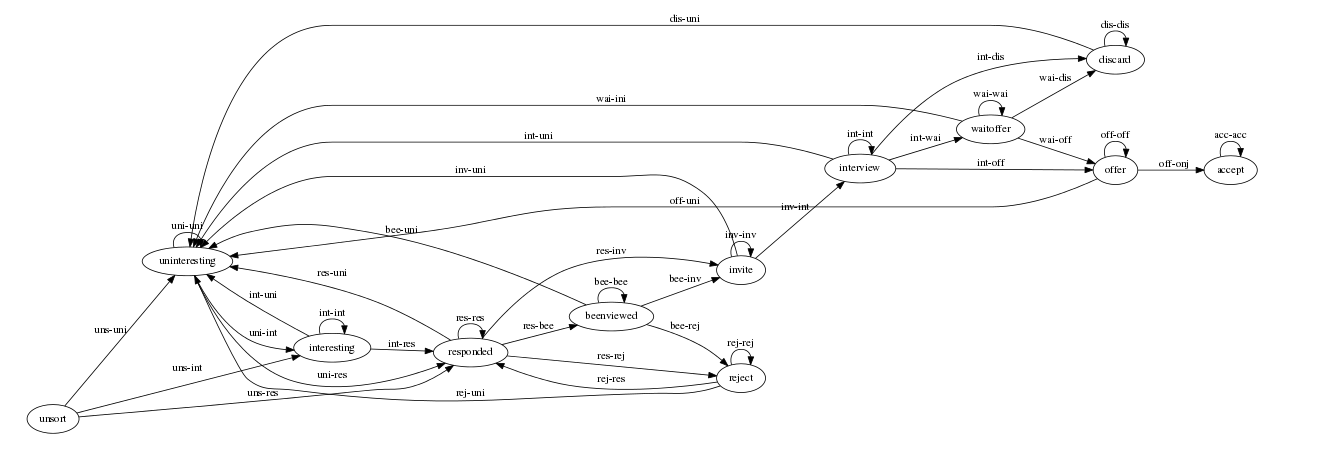
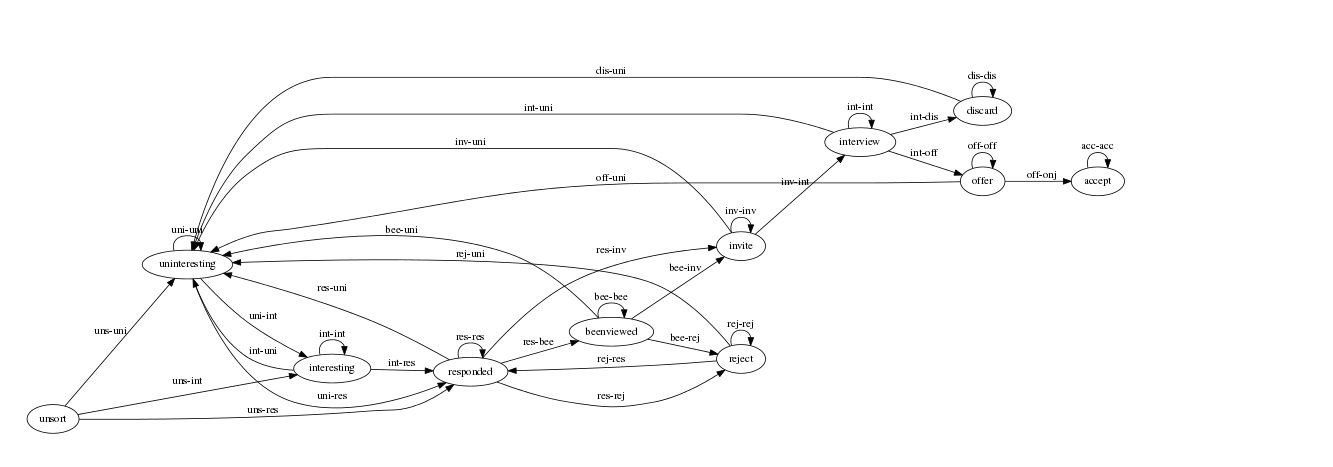
fixes

diff --git a/hh.html b/hh.html
@@ -4,7 +4,7 @@
 <html xmlns="http://www.w3.org/1999/xhtml" lang="en" xml:lang="en">
 <head>
 <title>Модуль HeadHunter</title>
-<!-- 2015-03-28 Сб. 07:10 -->
+<!-- 2015-03-28 Сб. 08:06 -->
 <meta  http-equiv="Content-Type" content="text/html;charset=utf-8" />
 <meta  name="generator" content="Org-mode" />
 <meta  name="author" content="rigidus" />
@@ -2444,36 +2444,6 @@ for the JavaScript code in this tag.
 </tr>
 
 <tr>
-<td class="left">int-wai</td>
-<td class="left">interview</td>
-<td class="left">waitoffer</td>
-</tr>
-
-<tr>
-<td class="left">wai-off</td>
-<td class="left">waitoffer</td>
-<td class="left">offer</td>
-</tr>
-
-<tr>
-<td class="left">wai-dis</td>
-<td class="left">waitoffer</td>
-<td class="left">discard</td>
-</tr>
-
-<tr>
-<td class="left">wai-ini</td>
-<td class="left">waitoffer</td>
-<td class="left">uninteresting</td>
-</tr>
-
-<tr>
-<td class="left">wai-wai</td>
-<td class="left">waitoffer</td>
-<td class="left">waitoffer</td>
-</tr>
-
-<tr>
 <td class="left">int-off</td>
 <td class="left">interview</td>
 <td class="left">offer</td>
@@ -2529,49 +2499,73 @@ for the JavaScript code in this tag.
 <pre class="src src-lisp" id="hh_fn_contents">(<span style="color: #a020f0;">in-package</span> #<span style="color: #483d8b;">:moto</span>)
 
 (<span style="color: #a020f0;">defun</span> <span style="color: #0000ff;">uns-uni</span> ()
-  <span style="color: #8b2252;">" unsort        | uninteresting "</span>)
+  <span style="color: #8b2252;">"| unsort        | uninteresting |"</span>)
 (<span style="color: #a020f0;">defun</span> <span style="color: #0000ff;">uns-int</span> ()
-  <span style="color: #8b2252;">" unsort        | interesting   "</span>)
+  <span style="color: #8b2252;">"| unsort        | interesting   |"</span>)
 (<span style="color: #a020f0;">defun</span> <span style="color: #0000ff;">uns-res</span> ()
-  <span style="color: #8b2252;">" unsort        | responded     "</span>)
+  <span style="color: #8b2252;">"| unsort        | responded     |"</span>)
 (<span style="color: #a020f0;">defun</span> <span style="color: #0000ff;">uni-int</span> ()
-  <span style="color: #8b2252;">" uninteresting | interesting   "</span>)
+  <span style="color: #8b2252;">"| uninteresting | interesting   |"</span>)
 (<span style="color: #a020f0;">defun</span> <span style="color: #0000ff;">uni-res</span> ()
-  <span style="color: #8b2252;">" uninteresting | responded     "</span>)
+  <span style="color: #8b2252;">"| uninteresting | responded     |"</span>)
 (<span style="color: #a020f0;">defun</span> <span style="color: #0000ff;">uni-uni</span> ()
-  <span style="color: #8b2252;">" uninteresting | uninteresting "</span>)
+  <span style="color: #8b2252;">"| uninteresting | uninteresting |"</span>)
 (<span style="color: #a020f0;">defun</span> <span style="color: #0000ff;">int-uni</span> ()
-  <span style="color: #8b2252;">" interesting   | uninteresting "</span>)
+  <span style="color: #8b2252;">"| interesting   | uninteresting |"</span>)
 (<span style="color: #a020f0;">defun</span> <span style="color: #0000ff;">int-res</span> ()
-  <span style="color: #8b2252;">" interesting   | responded     "</span>)
+  <span style="color: #8b2252;">"| interesting   | responded     |"</span>)
 (<span style="color: #a020f0;">defun</span> <span style="color: #0000ff;">int-int</span> ()
-  <span style="color: #8b2252;">" interesting   | interesting   "</span>)
+  <span style="color: #8b2252;">"| interesting   | interesting   |"</span>)
 (<span style="color: #a020f0;">defun</span> <span style="color: #0000ff;">res-bee</span> ()
-  <span style="color: #8b2252;">" responded     | beenviewed    "</span>)
+  <span style="color: #8b2252;">"| responded     | beenviewed    |"</span>)
 (<span style="color: #a020f0;">defun</span> <span style="color: #0000ff;">res-uni</span> ()
-  <span style="color: #8b2252;">" responded     | uninteresting "</span>)
+  <span style="color: #8b2252;">"| responded     | uninteresting |"</span>)
 (<span style="color: #a020f0;">defun</span> <span style="color: #0000ff;">res-rej</span> ()
-  <span style="color: #8b2252;">" responded     | reject        "</span>)
+  <span style="color: #8b2252;">"| responded     | reject        |"</span>)
 (<span style="color: #a020f0;">defun</span> <span style="color: #0000ff;">res-inv</span> ()
-  <span style="color: #8b2252;">" responded     | invite        "</span>)
+  <span style="color: #8b2252;">"| responded     | invite        |"</span>)
 (<span style="color: #a020f0;">defun</span> <span style="color: #0000ff;">res-res</span> ()
-  <span style="color: #8b2252;">" responded     | responded     "</span>)
+  <span style="color: #8b2252;">"| responded     | responded     |"</span>)
 (<span style="color: #a020f0;">defun</span> <span style="color: #0000ff;">bee-uni</span> ()
-  <span style="color: #8b2252;">" beenviewed    | uninteresting "</span>)
+  <span style="color: #8b2252;">"| beenviewed    | uninteresting |"</span>)
 (<span style="color: #a020f0;">defun</span> <span style="color: #0000ff;">bee-rej</span> ()
-  <span style="color: #8b2252;">" beenviewed    | reject        "</span>)
+  <span style="color: #8b2252;">"| beenviewed    | reject        |"</span>)
 (<span style="color: #a020f0;">defun</span> <span style="color: #0000ff;">bee-inv</span> ()
-  <span style="color: #8b2252;">" beenviewed    | invite        "</span>)
+  <span style="color: #8b2252;">"| beenviewed    | invite        |"</span>)
 (<span style="color: #a020f0;">defun</span> <span style="color: #0000ff;">bee-bee</span> ()
-  <span style="color: #8b2252;">" beenviewed    | beenviewed    "</span>)
+  <span style="color: #8b2252;">"| beenviewed    | beenviewed    |"</span>)
 (<span style="color: #a020f0;">defun</span> <span style="color: #0000ff;">rej-res</span> ()
-  <span style="color: #8b2252;">" reject        | responded     "</span>)
+  <span style="color: #8b2252;">"| reject        | responded     |"</span>)
 (<span style="color: #a020f0;">defun</span> <span style="color: #0000ff;">rej-uni</span> ()
-  <span style="color: #8b2252;">" reject        | uninteresting "</span>)
+  <span style="color: #8b2252;">"| reject        | uninteresting |"</span>)
 (<span style="color: #a020f0;">defun</span> <span style="color: #0000ff;">rej-rej</span> ()
-  <span style="color: #8b2252;">" reject        | reject        "</span>)
+  <span style="color: #8b2252;">"| reject        | reject        |"</span>)
 (<span style="color: #a020f0;">defun</span> <span style="color: #0000ff;">inv-inv</span> ()
-  <span style="color: #8b2252;">" invite        | invite        "</span>)
+  <span style="color: #8b2252;">"| invite        | invite        |"</span>)
+(<span style="color: #a020f0;">defun</span> <span style="color: #0000ff;">inv-uni</span> ()
+  <span style="color: #8b2252;">"| invite        | uninteresting |"</span>)
+(<span style="color: #a020f0;">defun</span> <span style="color: #0000ff;">inv-int</span> ()
+  <span style="color: #8b2252;">"| invite        | interview     |"</span>)
+(<span style="color: #a020f0;">defun</span> <span style="color: #0000ff;">int-uni</span> ()
+  <span style="color: #8b2252;">"| interview     | uninteresting |"</span>)
+(<span style="color: #a020f0;">defun</span> <span style="color: #0000ff;">int-int</span> ()
+  <span style="color: #8b2252;">"| interview     | interview     |"</span>)
+(<span style="color: #a020f0;">defun</span> <span style="color: #0000ff;">int-dis</span> ()
+  <span style="color: #8b2252;">"| interview     | discard       |"</span>)
+(<span style="color: #a020f0;">defun</span> <span style="color: #0000ff;">dis-uni</span> ()
+  <span style="color: #8b2252;">"| discard       | uninteresting |"</span>)
+(<span style="color: #a020f0;">defun</span> <span style="color: #0000ff;">dis-dis</span> ()
+  <span style="color: #8b2252;">"| discard       | discard       |"</span>)
+(<span style="color: #a020f0;">defun</span> <span style="color: #0000ff;">int-off</span> ()
+  <span style="color: #8b2252;">"| interview     | offer         |"</span>)
+(<span style="color: #a020f0;">defun</span> <span style="color: #0000ff;">off-uni</span> ()
+  <span style="color: #8b2252;">"| offer         | uninteresting |"</span>)
+(<span style="color: #a020f0;">defun</span> <span style="color: #0000ff;">off-off</span> ()
+  <span style="color: #8b2252;">"| offer         | offer         |"</span>)
+(<span style="color: #a020f0;">defun</span> <span style="color: #0000ff;">off-onj</span> ()
+  <span style="color: #8b2252;">"| offer         | accept        |"</span>)
+(<span style="color: #a020f0;">defun</span> <span style="color: #0000ff;">acc-acc</span> ()
+  <span style="color: #8b2252;">"| accept        | accept        |"</span>)
 </pre>
 </div>
 </div>
@@ -3141,6 +3135,8 @@ for the JavaScript code in this tag.
             <span style="color: #8b2252;">"&#1052;&#1086;&#1078;&#1085;&#1086; &#1087;&#1086;&#1087;&#1088;&#1086;&#1073;&#1086;&#1074;&#1072;&#1090;&#1100; &#1086;&#1090;&#1082;&#1083;&#1080;&#1082;&#1085;&#1091;&#1090;&#1100;&#1089;&#1103; &#1076;&#1088;&#1091;&#1075;&#1080;&#1084; &#1088;&#1077;&#1079;&#1102;&#1084;&#1077; &#1080;&#1083;&#1080; &#1079;&#1072;&#1073;&#1080;&#1090;&#1100; &#1085;&#1072; &#1074;&#1072;&#1082;&#1072;&#1085;&#1089;&#1080;&#1102; &#1080; &#1087;&#1077;&#1088;&#1077;&#1085;&#1077;&#1089;&#1090;&#1080; &#1077;&#1077; &#1074; '&#1085;&#1077;&#1080;&#1085;&#1090;&#1077;&#1088;&#1077;&#1089;&#1085;&#1099;&#1077;' "</span>
             ((<span style="color: #483d8b;">:br</span>))
             ((<span style="color: #483d8b;">:span</span> <span style="color: #483d8b;">:class</span> <span style="color: #8b2252;">"invite"</span>) <span style="color: #8b2252;">"&amp;nbsp;&#1047;&#1077;&#1083;&#1077;&#1085;&#1099;&#1084;&amp;nbsp;"</span>) <span style="color: #8b2252;">" - &#1077;&#1089;&#1083;&#1080; &#1088;&#1072;&#1073;&#1086;&#1090;&#1086;&#1076;&#1072;&#1090;&#1077;&#1083;&#1100; &#1087;&#1088;&#1080;&#1075;&#1083;&#1072;&#1089;&#1080;&#1083; &#1085;&#1072; &#1089;&#1086;&#1073;&#1077;&#1089;&#1077;&#1076;&#1086;&#1074;&#1072;&#1085;&#1080;&#1077;. "</span>
+            ((<span style="color: #483d8b;">:br</span>))
+            ((<span style="color: #483d8b;">:span</span> <span style="color: #483d8b;">:class</span> <span style="color: #8b2252;">"interview"</span>) <span style="color: #8b2252;">"&amp;nbsp;&#1057;&#1077;&#1088;&#1099;&#1084;&amp;nbsp;"</span>) <span style="color: #8b2252;">" - &#1077;&#1089;&#1083;&#1080; &#1089;&#1086;&#1073;&#1077;&#1089;&#1077;&#1076;&#1086;&#1074;&#1072;&#1085;&#1080;&#1077; &#1073;&#1099;&#1083;&#1086; &#1087;&#1088;&#1086;&#1081;&#1076;&#1077;&#1085;&#1086;. "</span>
             ((<span style="color: #483d8b;">:br</span>))((<span style="color: #483d8b;">:br</span>))
             <span style="color: #8b2252;">"&#1042;&#1072;&#1082;&#1072;&#1085;&#1089;&#1080;&#1080;, &#1082; &#1082;&#1086;&#1090;&#1086;&#1088;&#1099;&#1084; &#1077;&#1089;&#1090;&#1100; &#1079;&#1072;&#1084;&#1077;&#1090;&#1082;&#1080;, &#1074;&#1099;&#1076;&#1077;&#1083;&#1103;&#1102;&#1090;&#1089;&#1103; &#1079;&#1072;&#1088;&#1087;&#1083;&#1072;&#1090;&#1086;&#1081; &#1085;&#1072; "</span>
             ((<span style="color: #483d8b;">:span</span> <span style="color: #483d8b;">:class</span> <span style="color: #8b2252;">"notes"</span>) <span style="color: #8b2252;">"&amp;nbsp;&#1095;&#1077;&#1088;&#1085;&#1086;&#1084;&amp;nbsp;"</span>) <span style="color: #8b2252;">" &#1092;&#1086;&#1085;&#1077;. "</span>
@@ -3225,7 +3221,7 @@ for the JavaScript code in this tag.
                (fieldset <span style="color: #8b2252;">""</span>
                  (eval
                   (macroexpand
-                   (append '(select (<span style="color: #8b2252;">"newstate"</span> <span style="color: #8b2252;">""</span>))
+                   (append `(select (<span style="color: #8b2252;">"newstate"</span> <span style="color: #8b2252;">""</span> <span style="color: #483d8b;">:default</span> ,(subseq (state vac) 1)))
                            (list
                             (mapcar #'(<span style="color: #a020f0;">lambda</span> (x)
                                         (cons (symbol-name x) (symbol-name x)))
@@ -5197,7 +5193,7 @@ a, b, &#x2026; - их аргументы.
 </div>
 <div id="postamble" class="status">
 <p class="author">Author: rigidus</p>
-<p class="date">Created: 2015-03-28 Сб. 07:10</p>
+<p class="date">Created: 2015-03-28 Сб. 08:06</p>
 <p class="creator"><a href="http://www.gnu.org/software/emacs/">Emacs</a> 24.3.1 (<a href="http://orgmode.org">Org</a> mode )</p>
 <p class="validation"><a href="http://validator.w3.org/check?uri=referer">Validate</a></p>
 </div>

diff --git a/css/sortable.css b/css/sortable.css
@@ -85,6 +85,19 @@ li.disabled {
 .invite {
     background: #5FFE61;
 }
+.interview {
+    background: #867A87;
+}
+.offer {
+    background: #FFFFFF;
+}
+.discard {
+    background: #000000;
+}
+.accept {
+    background: #000000;
+}
+
 
 .dnd-area {
     width: 939px;
